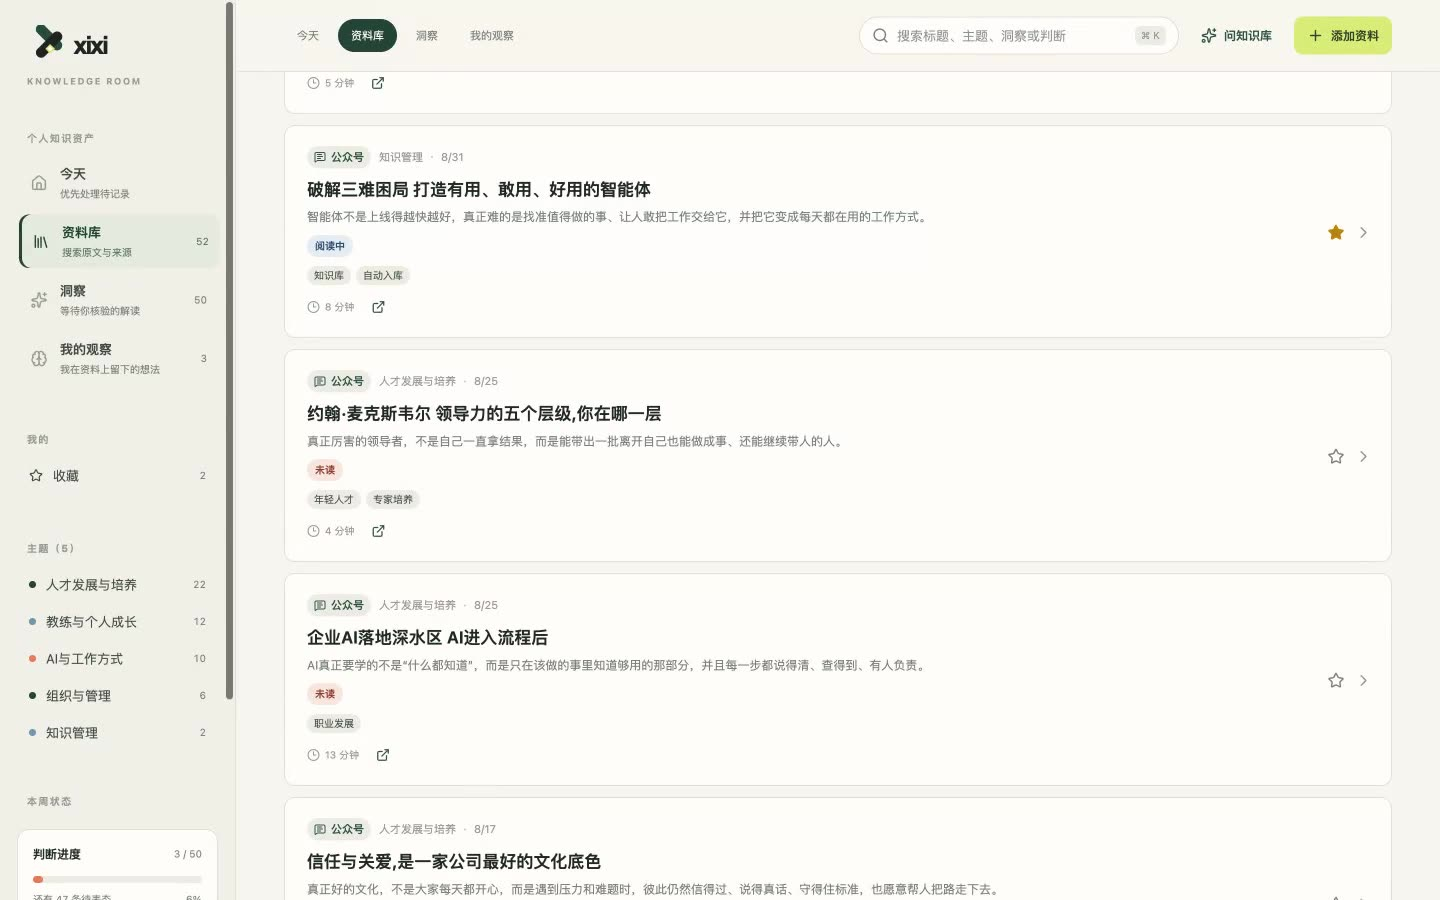
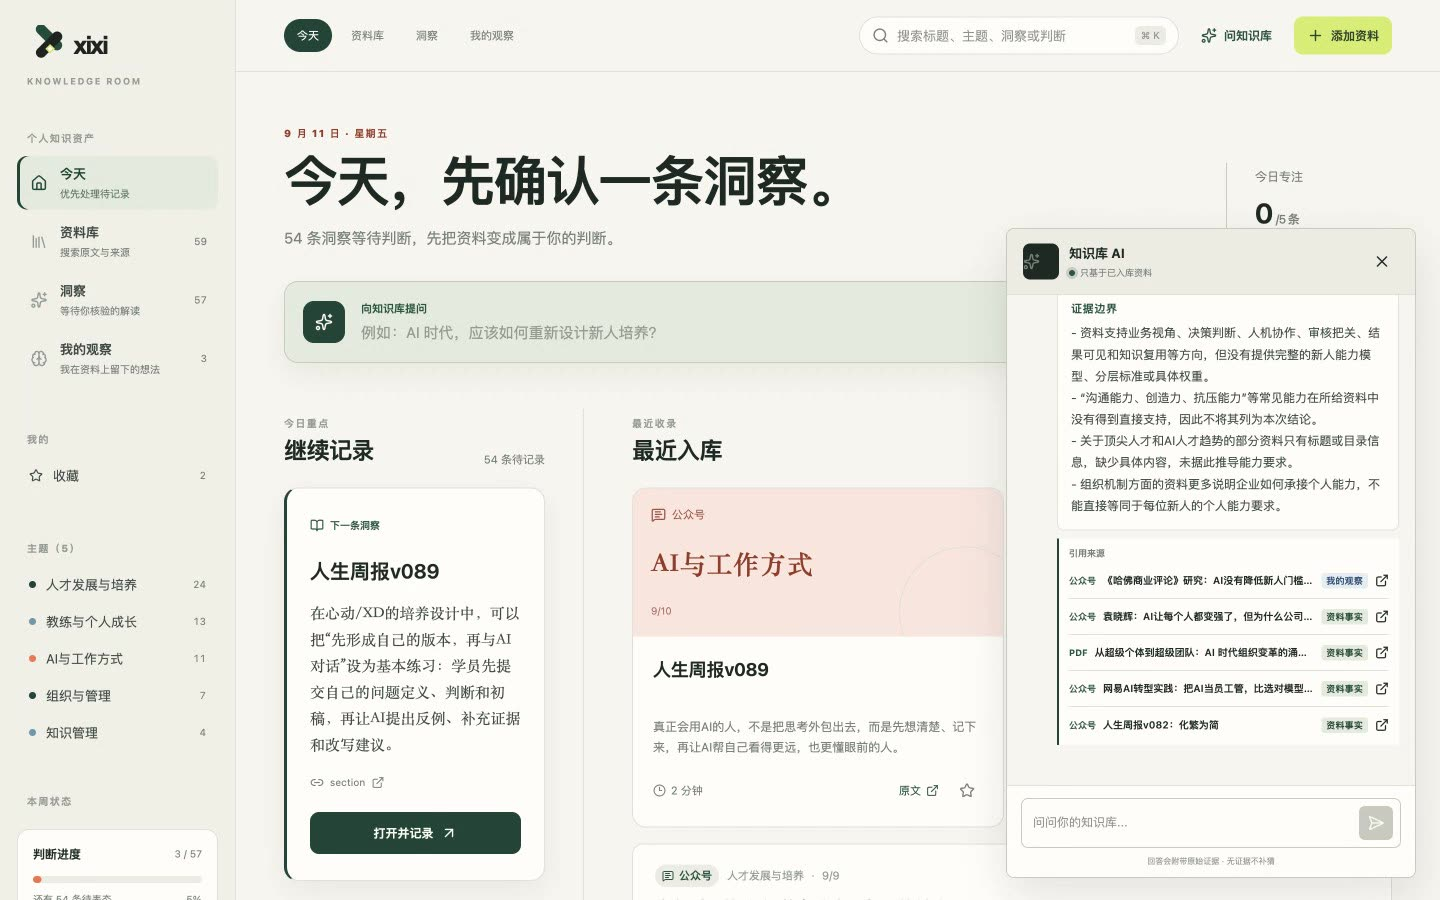
知识库案例：补全 Obsidian 真身沉淀闭环；重录演示视频（停留3秒+演示Copilot提问与引用来源），更新封面

diff --git a/src/content/systems/knowledge-portal.md b/src/content/systems/knowledge-portal.md
@@ -1,6 +1,6 @@
 ---
 title: "个人知识库门户：让每一份沉淀都能被再调用"
-tagline: "把散落在文档、会议、读书笔记里的知识，接成一条「采集—蒸馏—可溯源问答—发布」的流水线，并给它做了一个网站。"
+tagline: "资料自动进来，先在本地 Obsidian 沉淀成唯一真身，再发布成一个能随时提问、每句回答都带出处的网站——采集、解读、沉淀、发布、问答，接成一条完整链路。"
 short: "会自己进、能被问，每句回答都有出处"
 layer: build
 year: "2025—2026"
@@ -9,13 +9,13 @@ featured: true
 cover: /systems/knowledge-portal/cover.jpg
 span: "3"
 tags: ["知识门户", "可溯源问答", "有据可查"]
-pipeline: ["多端采集", "结构化蒸馏", "入库留痕", "可溯源问答", "签名发布"]
+pipeline: ["多端采集", "四段式解读", "Obsidian 真身沉淀", "签名发布", "可溯源问答"]
 link: "https://github.com/hiciki-1029/book-digest-hq"
 linkLabel: "开源的读书蒸馏器"
 media:
   - type: image
     src: /systems/knowledge-portal/knowledge-portal.jpg
-    caption: "实机演示：今日待处理 → 资料库卡片流 → 洞察与「写下我的想法」工作流"
+    caption: "实机界面：向知识库提问，回答分结论、归纳、启示、证据边界，并逐条附原始来源"
 order: 1
 ---
 
@@ -27,9 +27,10 @@ order: 1
 
 - **采集**：公众号、网页、PDF、飞书文章从不同入口进入统一素材区，飞书知识群里的内容还能自动入库；抓取脚本做了两级降级，一条通道抓不到就换下一条，不会静默失败。
 - **解读**：每篇资料由模型按固定的四段式解读，压成结论、证据、可迁移方法和待核验点，先生成结构化的"洞察"，但不直接当成我的判断。
+- **沉淀（Obsidian）**：解读后的资料以 Markdown 真身沉淀进本地 Obsidian 知识库，我在里面做双链、主题归类和长期复用；一条单向同步只往 Obsidian 写、不反向覆盖，保证本地始终是唯一真身。
 - **核验**：洞察进入"待记录"队列，由我逐条表态、写下自己的想法；系统把"资料事实"和"我的观察"分开存放。
+- **发布**：想在手机和网页上随时看时，发布脚本再从本地真身库把证据片段带签名、带有效期地同步到网站数据库；门户用 Next.js 搭建、部署在自己的域名下，白名单登录才可见，并配了健康检查和单元测试，链路断了会自己报警。
 - **问答**：门户只基于已入库的内容回答，固定给出结论、资料归纳、可执行启示和证据边界，每条结论都附可点开的原始来源，没有依据就明确说不知道，而不是补猜。
-- **发布**：本地始终保留唯一的真身库，发布脚本带签名和有效期，把证据片段同步到网站数据库；门户用 Next.js 搭建、部署在自己的域名下，白名单登录才可见，并配了健康检查脚本和单元测试，链路断了会自己报警。
 
 这条链路里，模型负责把材料读薄、把候选洞察摆上来；采集、解读可以自动，但"这条洞察成不成立、对我有什么用"必须由我写下。
 
@@ -42,6 +43,6 @@ order: 1
 
 ## 具体思考
 
-这里有一个我刻意做的架构决定：本地始终是唯一真身，网站只是一个可以随时重建的只读副本。我不想要两个都能编辑的地方，那样内容迟早对不上。同样地，我特意设计了"待记录"队列和"我的观察"这一层，让 AI 打草稿、人来定稿。工具越能干，人越要守住提问和判断的位置。
+这里有一个我刻意做的架构决定：本地 Obsidian 始终是唯一真身，网站只是一个可以随时重建的只读副本——我不在网站侧做第二处编辑，那样内容迟早对不上。同样地，我特意设计了"待记录"队列和"我的观察"这一层，让 AI 打草稿、人来定稿。工具越能干，人越要守住提问和判断的位置。
 
 说明：这是我的私人知识系统，单用户、白名单登录可见，不开放原始库；公开侧只放出可开源的工具和脱敏后的成品。
